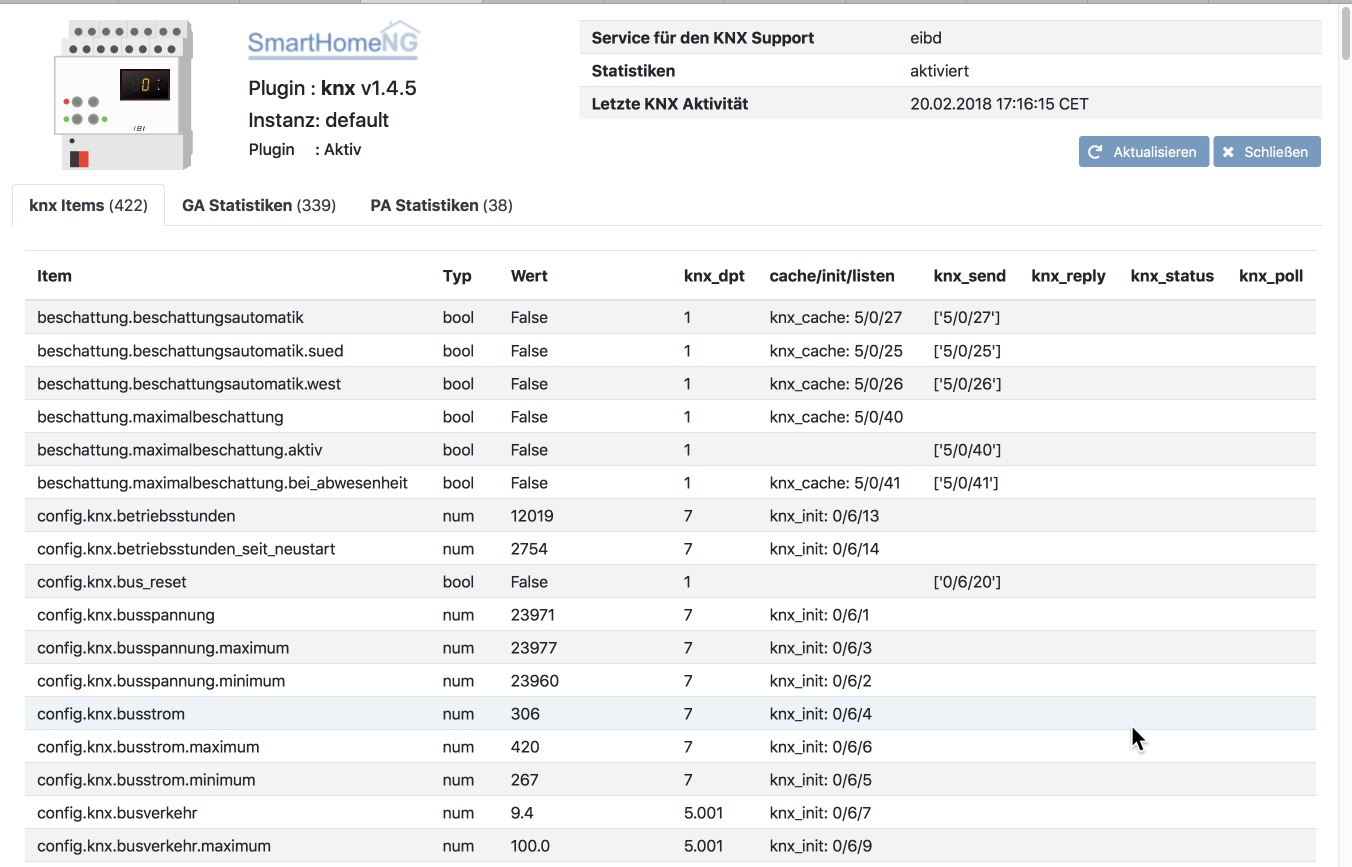
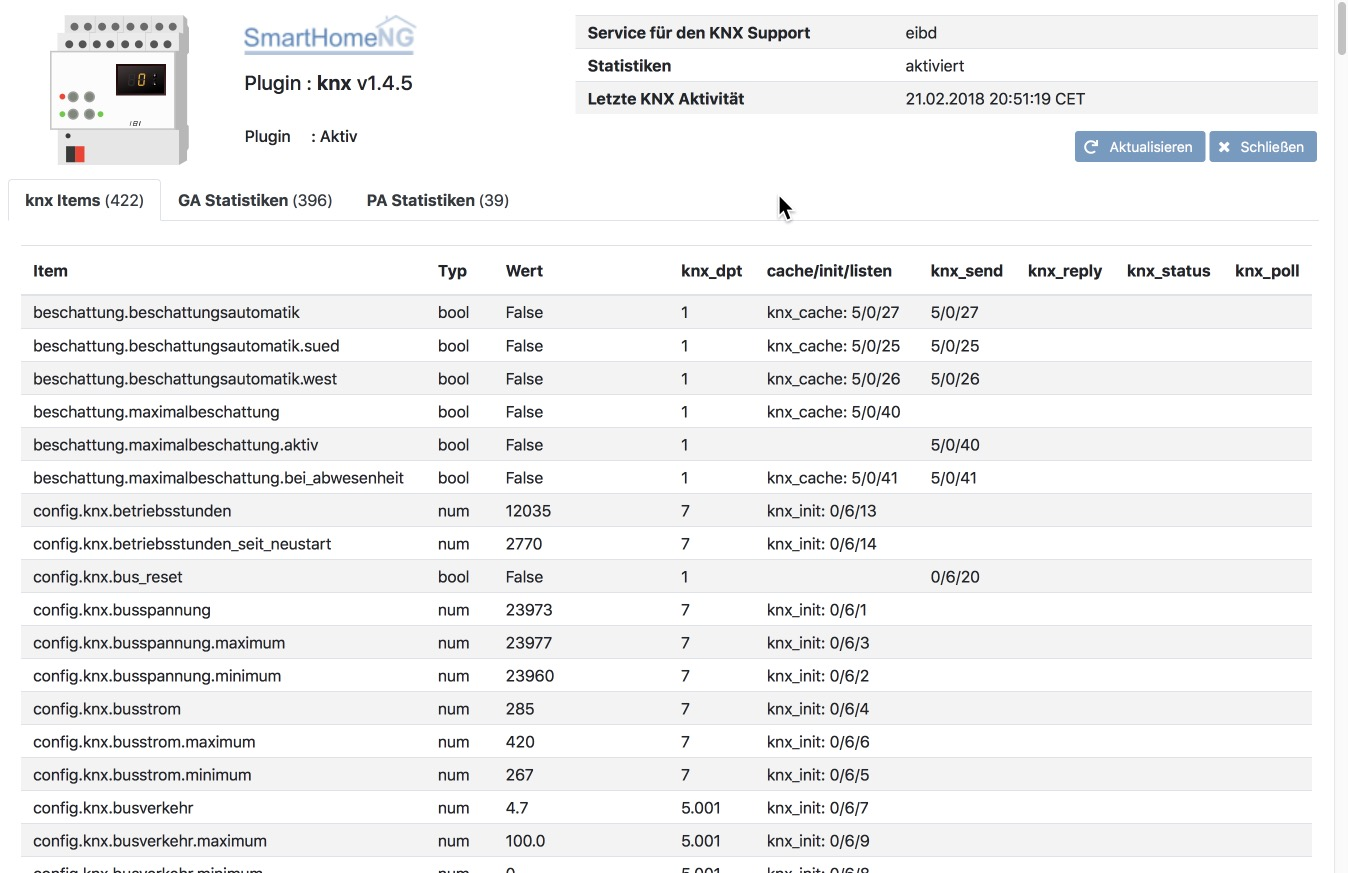
knx: Added user documentation; changes to metadata and webinterface

diff --git a/knx/webif/templates/index.html b/knx/webif/templates/index.html
@@ -109,9 +109,17 @@
 						knx_listen: {{ item.conf['knx_listen'] }}<br>
 					{% endif %}
 					</td>
-					<td class="py-1">{{ item.conf['knx_send'] }}</td>
+					{% if item.conf['knx_send']|length == 1 %}
+						<td class="py-1">{{ item.conf['knx_send'][0] }}</td>
+					{% else %}
+						<td class="py-1">{{ item.conf['knx_send'] }}</td>
+					{% endif %}
 					<td class="py-1">{{ item.conf['knx_reply'] }}</td>
-					<td class="py-1">{{ item.conf['knx_status'] }}</td>
+					{% if item.conf['knx_status']|length == 1 %}
+						<td class="py-1">{{ item.conf['knx_status'][0] }}</td>
+					{% else %}
+						<td class="py-1">{{ item.conf['knx_status'] }}</td>
+					{% endif %}
 					<td class="py-1">{{ item.conf['knx_poll'] }}</td>
 				</tr>
 			{% endfor %}

diff --git a/knx/user_doc.rst b/knx/user_doc.rst
@@ -1,5 +1,17 @@
+.. index:: Plugins; KNX (KNX Bus Unterstützung)
+.. index:: KNX
+
 knx
 ###
+
+Konfiguration
+=============
+
+Die Informationen zur Konfiguration des Plugins sind unter :doc:`/plugins_doc/config/knx` beschrieben.
+
+
+Web Interface
+=============
 
 Das knx Plugin verfügt über ein Webinterface, mit dessen Hilfe die Items die das Plugin nutzen
 übersichtlich dargestellt werden. Außerdem können Statistiken über die KNX Aktivität angezeigt
